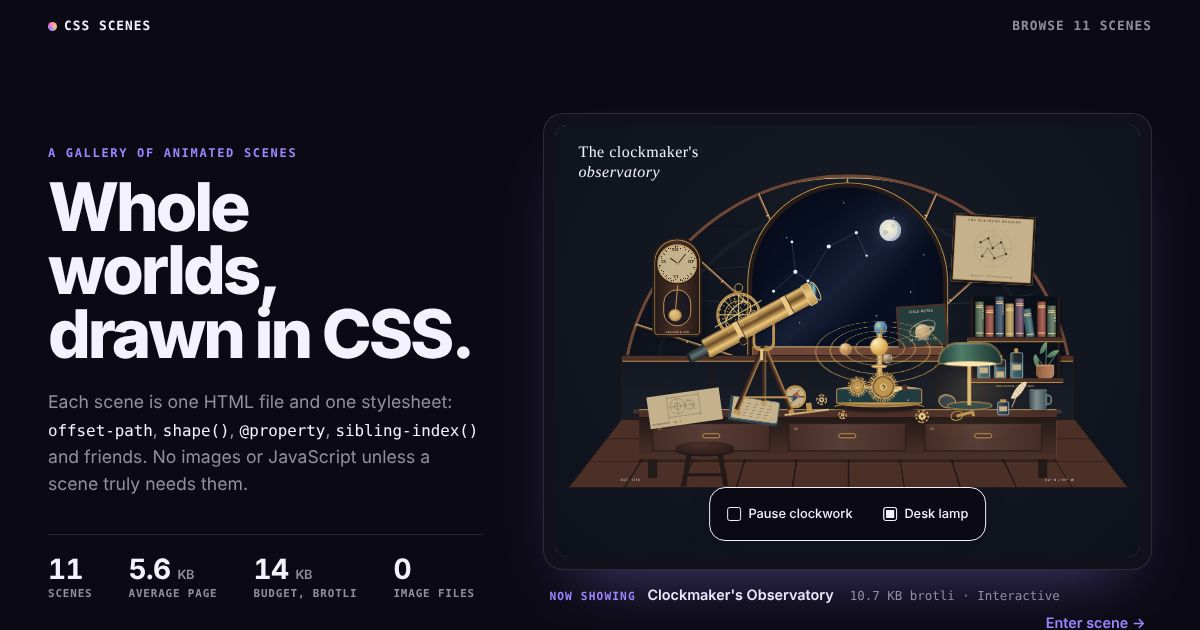
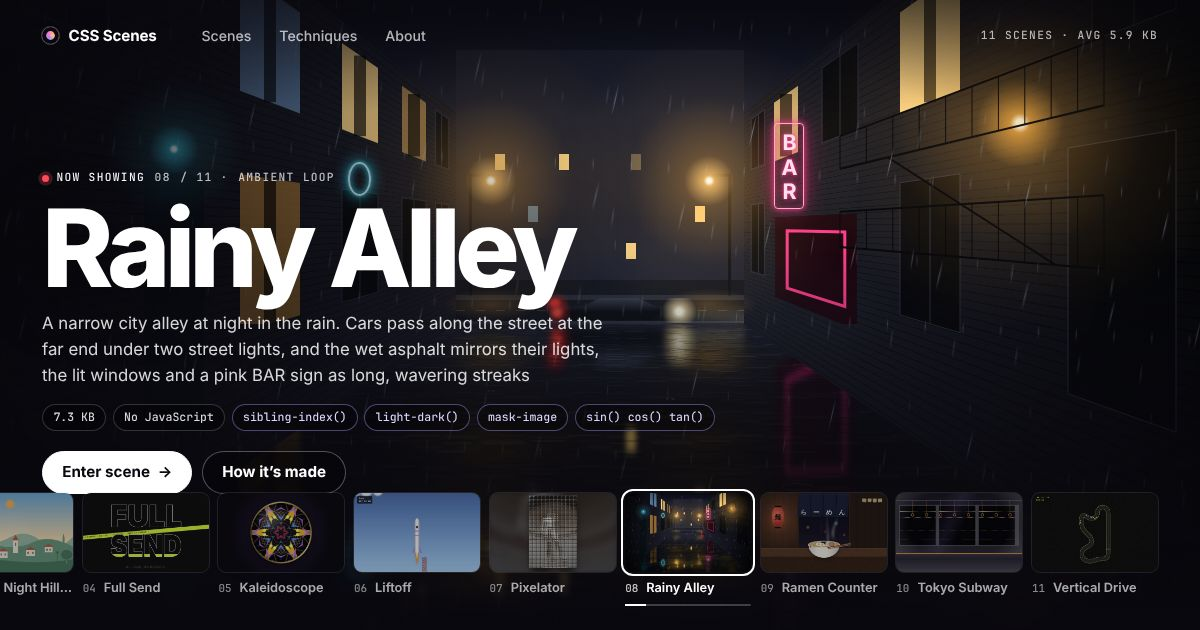
Redesign: switcher hidden until opened, regenerated stills, docs
Claude-Session: https://claude.ai/code/session_01KXCJqhuHccNxoWZM2TEcPY

diff --git a/.claude/skills/project-architecture/SKILL.md b/.claude/skills/project-architecture/SKILL.md
@@ -24,11 +24,13 @@ scenes/<slug>/* ------------> packages/build/src/cli.js -> dist/scenes/<slug>/ (
 sites/source/* -------------/                         \-> index.html + source.html
 sites/stats/stats.js -> embedded per-scene JSON
 sites/stats/panel.js -> dist/stats.js shared runtime panel
-sites/shared/site.css -> imported by index.css and source.css (never by scenes)
-sites/index/* + all scene metadata -> dist/index.html
+sites/shared/site.css -> imported by index.css, techniques.css, source.css and 404.css (never by scenes)
+sites/index/* + all scene metadata -> dist/index.html (player, reel, poster bento, techniques grid)
+sites/techniques/* + scene meta features + scene.css -> dist/techniques/index.html + dist/techniques/<key>/index.html
+scene list -> dist/scenes.json (read by the scene switcher in dist/stats.js)
 sites/404/* + scene list -> dist/404.html (Vercel serves it for unknown paths)
 sites/shared/head.js -> favicon + link-preview tags on every page; dist/favicon.svg
-sites/og/*.jpg (made by `pnpm og`) -> dist/og/ link-preview images
+sites/og/*.jpg + sites/posters/*.jpg (made by `pnpm og`) -> dist/og/ link previews, dist/posters/ gallery stills
 ```
 
 Lightning CSS inlines tokens, `@import "lib/<name>"` and (site pages only) `@import "site/<name>"`, lowers to Chrome 120+, Safari 17.4+,
@@ -44,24 +46,35 @@ HTML + CSS + optional scene JS against a 14 KiB budget plus `meta.exceptions.ext
 - `packages/build/src/tokens.js`: converts token JSON into registered properties and root values.
 - `packages/tokens/tokens.json`: shared colors, durations, easings, and registered angles.
 - `packages/lib/src/`: reusable CSS snippets resolved only through `lib/<name>` imports.
-- `sites/shared/`: styles shared by the gallery, source and 404 pages (surfaces, type, radii, focus, wordmark), and
+- `sites/shared/`: the house palette and parts shared by every site page (site bar, buttons, segmented filters,
+  Baseline status dots, the techniques grid, display headings, wordmark), and
   `head.js`: the site icon and Open Graph/Twitter tags (`headTags`), with `SITE` as the canonical origin.
 - `sites/404/`: the not-found page; the build fills in a list of every scene.
-- `sites/og/`: committed 1200x630 link-preview JPEGs, `index.jpg` plus one per scene slug. `pnpm og`
-  (`packages/build/src/og.js`) regenerates them from `dist/` with Playwright, which is not a project dependency;
-  rerun it after a scene's look changes. A page with no image simply gets no `og:image`.
-- `sites/index/`: gallery shell, card renderer, gallery styling, and the scene dock (`sceneChrome`).
-- `sites/source/`: the generated About & source page (what the scene is and its write-up beside the code), syntax highlighting, and a small
+- `sites/og/` and `sites/posters/`: committed stills. `pnpm og [slug…]` (`packages/build/src/og.js`) renders them
+  from `dist/` with Playwright (not a project dependency): per scene a 960x600 poster, a 480x300 `-sm` thumbnail and a
+  1200x630 link preview, all from one frame chosen by pausing every animation at `meta.poster.time` seconds (default
+  4; `meta.poster.scheme` picks light or dark), plus `og/index.jpg` when run for everything. Rerun it after a scene's
+  look changes or a scene lands. A page with no image simply gets no `og:image`.
+- `sites/index/`: `index.html` (the home's words and layout; a comment names the first scene, `hero:`, and the
+  bento's opening tiles, `bento:`), `home.js` (renderers and the shared site bar), `home.client.js` (inlined: the
+  reel, auto-advance, hover-to-play posters), `index.css`, and `cards.js` (scene modes, descriptions, the 404 list and
+  the scene toolbar, `sceneChrome`).
+- `sites/techniques/`: `techniques.js` is the registry of CSS features (key, name, summary, `match` against meta
+  feature names, `css` for the lines to quote, optional `CSS.supports()` test) plus the excerpt finder; `pages.js`
+  renders the index and each technique page. A scene appears on a technique page when one of its `features` names
+  matches; add a registry entry for a new feature.
+- `sites/source/`: the generated How it's made page (what the scene is and its write-up beside the code), syntax highlighting, and a small
   Markdown renderer (`markdown.js`) for `writeup.md`. It supports only what write-ups use; extend it when one needs more.
 - `sites/stats/stats.js`: build-time stats and feature-test mapping.
 - `sites/stats/panel.js`: browser-only. `<scene-controls>`, a column on the window's right edge (a bottom sheet on
   phones) with two tabs: Controls, with playback (speed, loop, pause, restart, applied to `.stage` animations through
   the Web Animations API) and the scene settings (colour scheme, `params`), and Stats (performance, size,
   compatibility, environment). It wires the toolbar's Controls and fps buttons, which `sceneChrome` renders hidden up
-  front. Scenes play on the clock, never on scroll.
+  front. Scenes play on the clock, never on scroll. It also defines `<scene-switcher>`, the popover of every scene
+  opened from the toolbar's `08 / 11` button or G, anchored under it with CSS anchor positioning where supported.
 - Chrome never covers a scene: `sceneChrome` insets `.stage` by `--chrome-top` (the toolbar), `--chrome-right` (the
   Controls column) and `--chrome-bottom` (the phone sheet). Scenes should size from the stage (%), not the viewport,
-  where they can. Only the About & source dialog floats, and it stops at the Controls column too.
+  where they can. Only the How it's made dialog and the scene switcher float, and it stops at the Controls column too.
 - `.claude/`: scene design/build/review/write-up workflow; `/new-scene` is the
   human-approval-gated orchestrator.
 - `vercel.json`: static deployment of `dist/`; no framework runtime or serverless functions.
@@ -106,7 +119,7 @@ HTML + CSS + optional scene JS against a 14 KiB budget plus `meta.exceptions.ext
 
 1. Run `pnpm build`.
 2. Require exit code 0 and every row in the size table to remain within budget.
-3. For UI changes, run `pnpm dev` and inspect gallery, scene, the About & source dialog/page, and the Controls and Stats tabs.
+3. For UI changes, run `pnpm dev` and inspect gallery, scene, the How it's made dialog/page, the scene switcher, the technique pages, and the Controls and Stats tabs.
 4. Check light/dark, mobile/desktop, reduced motion, and feature fallback when relevant.
 5. Confirm `git status` contains authored files only, never `dist/`, `.env.local`, or `.vercel/`.
 

diff --git a/ideas/site-improvements.md b/ideas/site-improvements.md
@@ -6,8 +6,8 @@ Things noticed while building the Pixelator scene (2026-11-10). None of these ar
 
 1. **No check runs on a PR.** `pnpm build` is the only gate and nothing runs it automatically except Vercel's deploy. A small GitHub Action running `pnpm install --frozen-lockfile && pnpm build` would catch budget failures before review.
 2. **Render checks are rewritten by hand for every scene.** Each scene thread writes throwaway Playwright scripts for the same shots: a frame at a chosen time, dark and light, phone width, reduced motion, the `#card` view. A `pnpm shots <slug>` script next to `og.js` would save that and make reviews comparable.
-3. **`pnpm og` is all or nothing, and picks its frame by waiting 2.5 s.** It re-renders every scene, and a scene whose best frame comes later (a scene that builds up over ten seconds, say) gets a weak preview. Suggest an optional slug argument and a `meta.json` field for the frame time.
-4. **The Controls tab shows in link-preview images.** A page opened at `#card` in its own tab hides the top bar but not the right-edge Controls tab, so every `sites/og/*.jpg` has a "Controls" strip down its right side. `panel.js` skips itself only inside iframes; it should also skip when `#card` or `#preview` is the target.
+3. **Done in #29.** **`pnpm og` is all or nothing, and picks its frame by waiting 2.5 s.** It re-renders every scene, and a scene whose best frame comes later (a scene that builds up over ten seconds, say) gets a weak preview. Suggest an optional slug argument and a `meta.json` field for the frame time.
+4. **Done in #29.** **The Controls tab shows in link-preview images.** A page opened at `#card` in its own tab hides the top bar but not the right-edge Controls tab, so every `sites/og/*.jpg` has a "Controls" strip down its right side. `panel.js` skips itself only inside iframes; it should also skip when `#card` or `#preview` is the target.
 5. **The dev server and the `og.js` server are two copies of the same static server**, with different content-type tables (`og.js` served JPEGs as `text/html`; fixed here). Neither knows `.png`, `.webp` or `.avif`. Neither serves clean URLs, so `/scenes/x/source` works on Vercel and 404s locally.
 6. **The dev server rebuilds every scene on every request.** Fine at eleven scenes; it will drag as the gallery grows. Rebuilding only scenes whose files changed is a small change.
 7. **Scene assets.** Done here in the simplest way: `scenes/<slug>/assets/` is copied beside the page. Still open: assets are not counted or shown anywhere (the stats panel's size table says 5.2 KB for a page that also loads a 94 KB photo), and `vercel.json` sets no cache headers for them.
@@ -15,10 +15,10 @@ Things noticed while building the Pixelator scene (2026-11-10). None of these ar
 
 ## Metadata
 
-9. **`SITE` in `sites/shared/head.js` is still `https://css-scenes.vercel.app`.** The custom domain went live on 2026-11-05, so `og:url`, link-preview image URLs and now the CodePen asset URLs point at the old origin.
+9. **Done in #29.** **`SITE` in `sites/shared/head.js` is still `https://css-scenes.vercel.app`.** The custom domain went live on 2026-11-05, so `og:url`, link-preview image URLs and now the CodePen asset URLs point at the old origin.
 10. **`inspiration` is the only credit field, and it always reads "Inspired by".** Pixelator's photo credit shows as "Inspired by Michelangelo's David, Florence 2019 … by George M. Groutas", which is not quite what it is. A `credits` list with its own label would fit photos, sounds and fonts.
 11. **A range param's `unit` is written into the CSS value.** That makes a label-only unit impossible: "8 tiles" would set `--size: 8 tiles`. A separate `suffix` for display would fix it. 
-12. **Feature support tests are matched by regex on `features[].name`** (`sites/stats/stats.js`). A slightly different spelling silently drops the live check: "CSS round() / mod()" matched nothing, "CSS round() and mod()" matches. An explicit `test` field in `meta.json`, with the regex table as the fallback, would be sturdier. There are no tests yet for `sqrt()`, container query units or `:has()`.
+12. **Partly addressed in #29** (technique registry in `sites/techniques/techniques.js`). **Feature support tests are matched by regex on `features[].name`** (`sites/stats/stats.js`). A slightly different spelling silently drops the live check: "CSS round() / mod()" matched nothing, "CSS round() and mod()" matches. An explicit `test` field in `meta.json`, with the regex table as the fallback, would be sturdier. There are no tests yet for `sqrt()`, container query units or `:has()`.
 13. **The Playback section shows for scenes with nothing to play.** Done in the Pixelator PR at the owner's request: the panel hides Playback until `.stage` has an animation that is not a transition.
 
 ## Source viewer

diff --git a/docs/team/project.md b/docs/team/project.md
@@ -7,12 +7,12 @@ Both roles read this file first. It holds everything specific to css-scenes, so 
 - **Name:** css-scenes.
 - **What it is:** a gallery of animated scenes built with modern CSS only, each with its source viewer, size stats and a technique write-up.
 - **Owner:** the founder's own project, unbilled, on the Lite team.
-- **Stage:** live on Vercel, nine scenes (2026-10-29).
+- **Stage:** live at https://css-scenes.bizrocket.ca, eleven scenes (2026-11-27).
 
 ## Stack
 
 - A framework-free static site generator in a pnpm workspace. Lightning CSS bundles and lowers CSS (Chrome 120+, Safari 17.4+, Firefox 128+). Output goes to `dist/`, which is never edited.
-- Code map: `scenes/<slug>/` (each scene: `index.html`, `scene.css`, `meta.json`, optional `scene.js`, `brief.md`, `writeup.md`), `packages/build/src/cli.js` (the whole build and dev server), `packages/tokens/` (design tokens), `packages/lib/src/` (shared CSS snippets), `sites/` (gallery index, source viewer, stats panel), `ideas/`.
+- Code map: `scenes/<slug>/` (each scene: `index.html`, `scene.css`, `meta.json`, optional `scene.js`, `brief.md`, `writeup.md`), `packages/build/src/cli.js` (the whole build and dev server), `packages/tokens/` (design tokens), `packages/lib/src/` (shared CSS snippets), `sites/` (home, technique pages, source viewer, stats panel and scene switcher), `sites/posters/` and `sites/og/` (stills from `pnpm og`), `ideas/`.
 - The `project-architecture` skill in `.claude/skills/` is the full map; read it before cross-cutting changes.
 
 ## Project specialists
@@ -26,6 +26,7 @@ The scene pipeline has its own agents and skills in `.claude/`, run by `/new-sce
 | Install | `pnpm install --frozen-lockfile` |
 | Build (enforces each scene's size budget) | `pnpm build` |
 | Dev server | `pnpm dev` (http://localhost:4321/) |
+| Posters and link previews (after a scene's look changes) | `pnpm build && pnpm og [slug…]` (needs Playwright) |
 | Tests | none; `pnpm build` is the check |
 
 ## Hosting and deploys

diff --git a/CHANGELOG.md b/CHANGELOG.md
@@ -2,5 +2,6 @@
 
 One line per merged change, newest first: date, what changed, PR.
 
+- 2026-11-27 · Screening Room redesign: full-bleed home player with a reel, poster bento, technique pages with code excerpts, scene switcher · #29
 - 2026-11-11 · Scene page layout: Stats is a tab in the Controls column, About and Source are one view, and the dialog no longer sits under the column · this PR
 - 2026-10-29 · Join the agent company (Lite team from company-kit) · this PR
